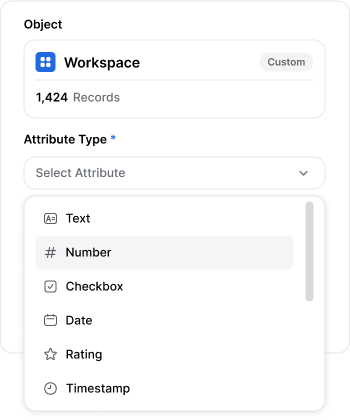
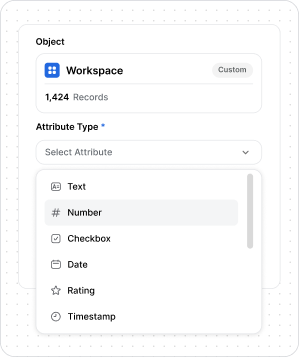
🐛 Style: Change fix to dinamic size of box

diff --git a/src/components/blocks/DataAndFlows.tsx b/src/components/blocks/DataAndFlows.tsx
@@ -13,7 +13,7 @@ import { BoxSection } from './BoxSection';
 
 export function YourDataAndFlows() {
   return (
-    <div className="flex flex-col gap-7 px-6">
+    <div className="flex flex-col gap-7">
       <HeaderSection
         title="Modele seus dados e fluxos."
         description="Um CRM precisa ir além de negociações. Attio é construído para qualquer processo de negócio."
@@ -21,15 +21,15 @@ export function YourDataAndFlows() {
 
       <div className="mt-9 flex flex-col gap-7">
         <BoxSection
-          height="32"
           title="Sempre conecte aos seus dados."
           description="Sincronize continuamente com seu produto, despesas e relacionamentos em sua área de trabalho."
+          hasImagePadding
         >
-          <div className="absolute bottom-1 right-1 h-[20rem] w-[17rem] rounded-tl-[19.5px] border-[0.0225rem] border-base-dark-100 bg-blue-100">
-            <div className="h-full w-full overflow-hidden rounded-lg bg-[#F9F9FB]">
+          <div className="rounded-3xl border-[0.0225rem] border-base-dark-100 bg-blue-100">
+            <div className="h-full w-full overflow-hidden rounded-3xl bg-[#F9F9FB]">
               <Image
                 priority
-                className="w-full rounded-lg object-cover"
+                className="w-full rounded-3xl object-cover"
                 src={Workspaces}
                 alt="Imagem de um espaço virtual de trabalho"
               />
@@ -37,11 +37,10 @@ export function YourDataAndFlows() {
           </div>
         </BoxSection>
         <BoxSection
-          height="26.3"
           title="Um CRM para qualquer caso."
           description="Facilmente crie objetos customizados para conectar seu negócio a uma estrutura de dados unica."
         >
-          <div className="absolute bottom-[6.5px] w-[18.5625rem] rounded-b-[1.20rem] border-[0.0225rem] border-base-dark-100 bg-blue-100">
+          <div className="rounded-b-[1.20rem] border-[0.0225rem] border-base-dark-100 bg-blue-100">
             <div className="h-full w-full overflow-hidden rounded-lg bg-[#F9F9FB]">
               <Image
                 priority
@@ -52,8 +51,8 @@ export function YourDataAndFlows() {
             </div>
           </div>
         </BoxSection>
-        <BoxSection height="20">
-          <div className="absolute h-full w-full rounded-[1.25rem] border-[0.0225rem] border-base-dark-100 bg-blue-100 p-1">
+        <BoxSection>
+          <div className="rounded-[1.25rem] border-[0.0225rem] border-base-dark-100 bg-blue-100">
             <div className="h-full w-full overflow-hidden rounded-[1.25rem] bg-[#F9F9FB]">
               <Image
                 priority

diff --git a/src/components/blocks/BoxSection.tsx b/src/components/blocks/BoxSection.tsx
@@ -1,34 +1,42 @@
 import { type ReactNode } from 'react';
 
 interface BoxSectionProps {
-  height: string;
   title?: string;
   description?: string;
   children: ReactNode;
+  hasImagePadding?: boolean
 }
 
 export function BoxSection({
-  height,
   title,
   description,
-  children
+  children,
+  hasImagePadding
 }: BoxSectionProps) {
   return (
-    <div className="flex w-full flex-col">
+    <div className="flex h-full w-full flex-col">
       <div
-        className={`flex h-[${height}rem]  w-full flex-col items-center justify-center rounded-[1.25rem] border-base-200 bg-base-dark-100 p-1 relative`}
+        className={`flex  h-full w-full flex-col items-center justify-center rounded-[1.25rem] border-base-200 bg-base-dark-100 p-1`}
       >
-        <div className="flex h-full w-full flex-col gap-3 rounded-[1.25rem] border border-base-dark-200 bg-base-100">
-          <div className="flex flex-col gap-1 p-6">
-            <h2 className="text-base font-semibold tracking-[-0.2px]">
-              {title}
-            </h2>
-            <span className="font-normal leading-7 tracking-tight text-base-500">
-              {description}
-            </span>
+        <div
+          className={`flex h-full w-full flex-col gap-3 rounded-[1.25rem] border border-base-dark-200 bg-base-100 ${hasImagePadding && "pl-6"}`}
+        >
+          <div className="flex flex-col">
+            <div className={`flex flex-col ${title && description && 'p-6'}`}>
+              {title && description && (
+                <>
+                  <h2 className="text-base font-semibold tracking-[-0.2px]">
+                    {title}
+                  </h2>
+                  <span className="font-normal leading-7 tracking-tight text-base-500">
+                    {description}
+                  </span>
+                </>
+              )}
+            </div>
+            {children}
           </div>
         </div>
-        {children}
       </div>
     </div>
   );

diff --git a/src/components/blocks/HeaderSection.tsx b/src/components/blocks/HeaderSection.tsx
@@ -5,7 +5,7 @@ interface HeaderSectionProps {
 
 export function HeaderSection({ title, description }: HeaderSectionProps) {
   return (
-    <div className="flex flex-col gap-4">
+    <div className="flex flex-col gap-4 ml-1">
       <h1 className="font-opensans text-[2rem] font-bold italic leading-[2.375rem] tracking-tighter">
         {title}
       </h1>
